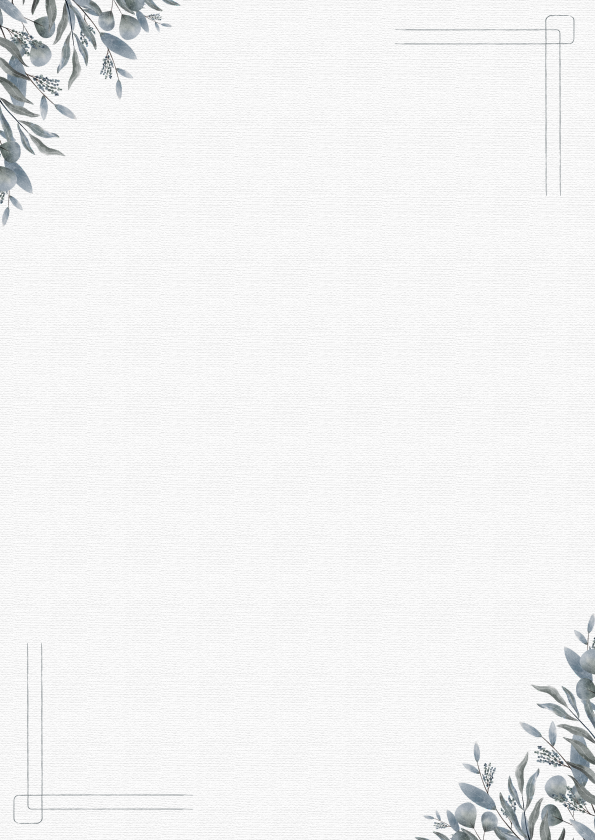
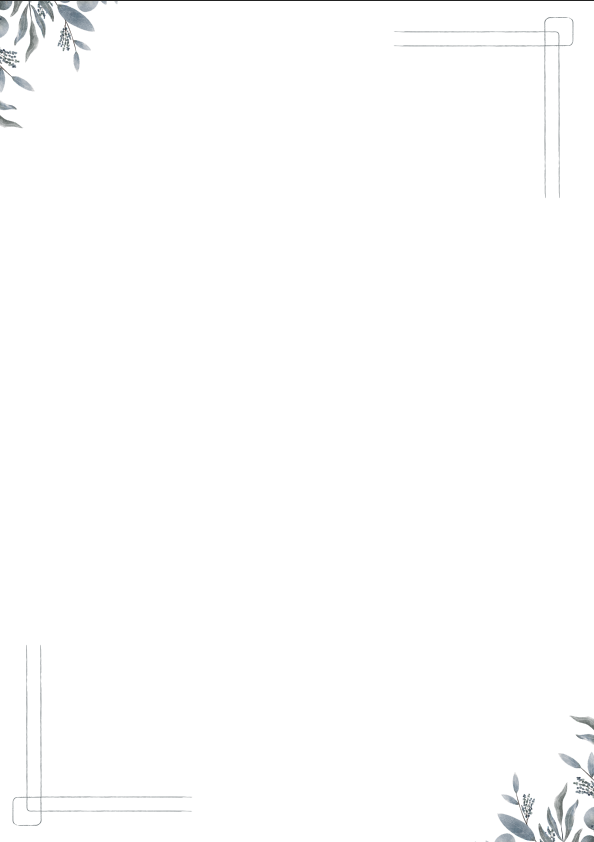
mudando fundo e adicionando link nos botão

diff --git a/index.html b/index.html
@@ -41,9 +41,7 @@
             opacity: 0;
             transform: scale(0.95);
             animation: fadeInCard 1.2s 0.2s cubic-bezier(0.19, 1, 0.22, 1) forwards;
-            
             background-image: url('image/fundo.PNG');
-            /* AJUSTE FINAL: Força a imagem a esticar e preencher todo o quadro */
             background-size: 100% 100%; 
             background-position: center;
             background-repeat: no-repeat;
@@ -124,10 +122,11 @@
                 </div>
             </div>
             <div class="icons-grid">
-                <a href="#" class="icon-item reveal-content"><svg xmlns="http://www.w3.org/2000/svg" width="24" height="24" viewBox="0 0 24 24" fill="none" stroke="currentColor" stroke-width="1.5" stroke-linecap="round" stroke-linejoin="round"><path d="M16.5 6.5a4.5 4.5 0 1 0-9 0 4.5 4.5 0 0 0 9 0z"/><path d="M12.5 12.5a4.5 4.5 0 1 0-9 0 4.5 4.5 0 0 0 9 0z"/></svg><span>Cerimônia</span></a>
-                <a href="#" class="icon-item reveal-content"><svg xmlns="http://www.w3.org/2000/svg" width="24" height="24" viewBox="0 0 24 24" fill="none" stroke="currentColor" stroke-width="1.5" stroke-linecap="round" stroke-linejoin="round"><path d="M8 2a2 2 0 0 0-2 2v10a2 2 0 0 0 2 2h0a2 2 0 0 0 2-2V4a2 2 0 0 0-2-2z"/><path d="m16 2a2 2 0 0 0-2 2v10a2 2 0 0 0 2 2h0a2 2 0 0 0 2-2V4a2 2 0 0 0-2-2z"/><path d="M6 16h12"/><path d="M12 16v6"/></svg><span>Recepção</span></a>
+                <!-- LINKS ATUALIZADOS AQUI -->
+                <a href="https://maps.app.goo.gl/ojCigKDEsbUQz8GK7?g_st=iw" target="_blank" rel="noopener noreferrer" class="icon-item reveal-content"><svg xmlns="http://www.w3.org/2000/svg" width="24" height="24" viewBox="0 0 24 24" fill="none" stroke="currentColor" stroke-width="1.5" stroke-linecap="round" stroke-linejoin="round"><path d="M16.5 6.5a4.5 4.5 0 1 0-9 0 4.5 4.5 0 0 0 9 0z"/><path d="M12.5 12.5a4.5 4.5 0 1 0-9 0 4.5 4.5 0 0 0 9 0z"/></svg><span>Cerimônia</span></a>
+                <a href="https://maps.app.goo.gl/jVHSAVS7oSGjZFuD7?g_st=iw" target="_blank" rel="noopener noreferrer" class="icon-item reveal-content"><svg xmlns="http://www.w3.org/2000/svg" width="24" height="24" viewBox="0 0 24 24" fill="none" stroke="currentColor" stroke-width="1.5" stroke-linecap="round" stroke-linejoin="round"><path d="M8 2a2 2 0 0 0-2 2v10a2 2 0 0 0 2 2h0a2 2 0 0 0 2-2V4a2 2 0 0 0-2-2z"/><path d="m16 2a2 2 0 0 0-2 2v10a2 2 0 0 0 2 2h0a2 2 0 0 0 2-2V4a2 2 0 0 0-2-2z"/><path d="M6 16h12"/><path d="M12 16v6"/></svg><span>Recepção</span></a>
                 <a href="#" class="icon-item reveal-content"><svg xmlns="http://www.w3.org/2000/svg" width="24" height="24" viewBox="0 0 24 24" fill="none" stroke="currentColor" stroke-width="1.5" stroke-linecap="round" stroke-linejoin="round"><path d="M20 12v10H4V12"/><path d="M2 7h20v5H2z"/><path d="M12 22V7"/><path d="M12 7H7.5a2.5 2.5 0 0 1 0-5C11 2 12 7 12 7z"/><path d="M12 7h4.5a2.5 2.5 0 0 0 0-5C13 2 12 7 12 7z"/></svg><span>Presentes</span></a>
-                <a href="#" class="icon-item reveal-content"><svg xmlns="http://www.w3.org/2000/svg" width="24" height="24" viewBox="0 0 24 24" fill="none" stroke="currentColor" stroke-width="1.5" stroke-linecap="round" stroke-linejoin="round"><path d="M22 11.08V12a10 10 0 1 1-5.93-9.14"/><polyline points="22 4 12 14.01 9 11.01"/></svg><span>Confirmar</span><span class="rsvp-date">até 10/02/2026</span></a>
+                <a href="https://wa.me/5519993927429?text=Boa%20Tarde%2C%20%0A%0AGostaria%20de%20confirmar%20presen%C3%A7a%20no%20casamento%20Jaqueline%20e%20Cleverson.%20%0A" target="_blank" rel="noopener noreferrer" class="icon-item reveal-content"><svg xmlns="http://www.w3.org/2000/svg" width="24" height="24" viewBox="0 0 24 24" fill="none" stroke="currentColor" stroke-width="1.5" stroke-linecap="round" stroke-linejoin="round"><path d="M22 11.08V12a10 10 0 1 1-5.93-9.14"/><polyline points="22 4 12 14.01 9 11.01"/></svg><span>Confirmar</span><span class="rsvp-date">até 10/02/2026</span></a>
             </div>
             <p class="footer-text reveal-content">Toque nos ícones para interagir</p>
         </div>
